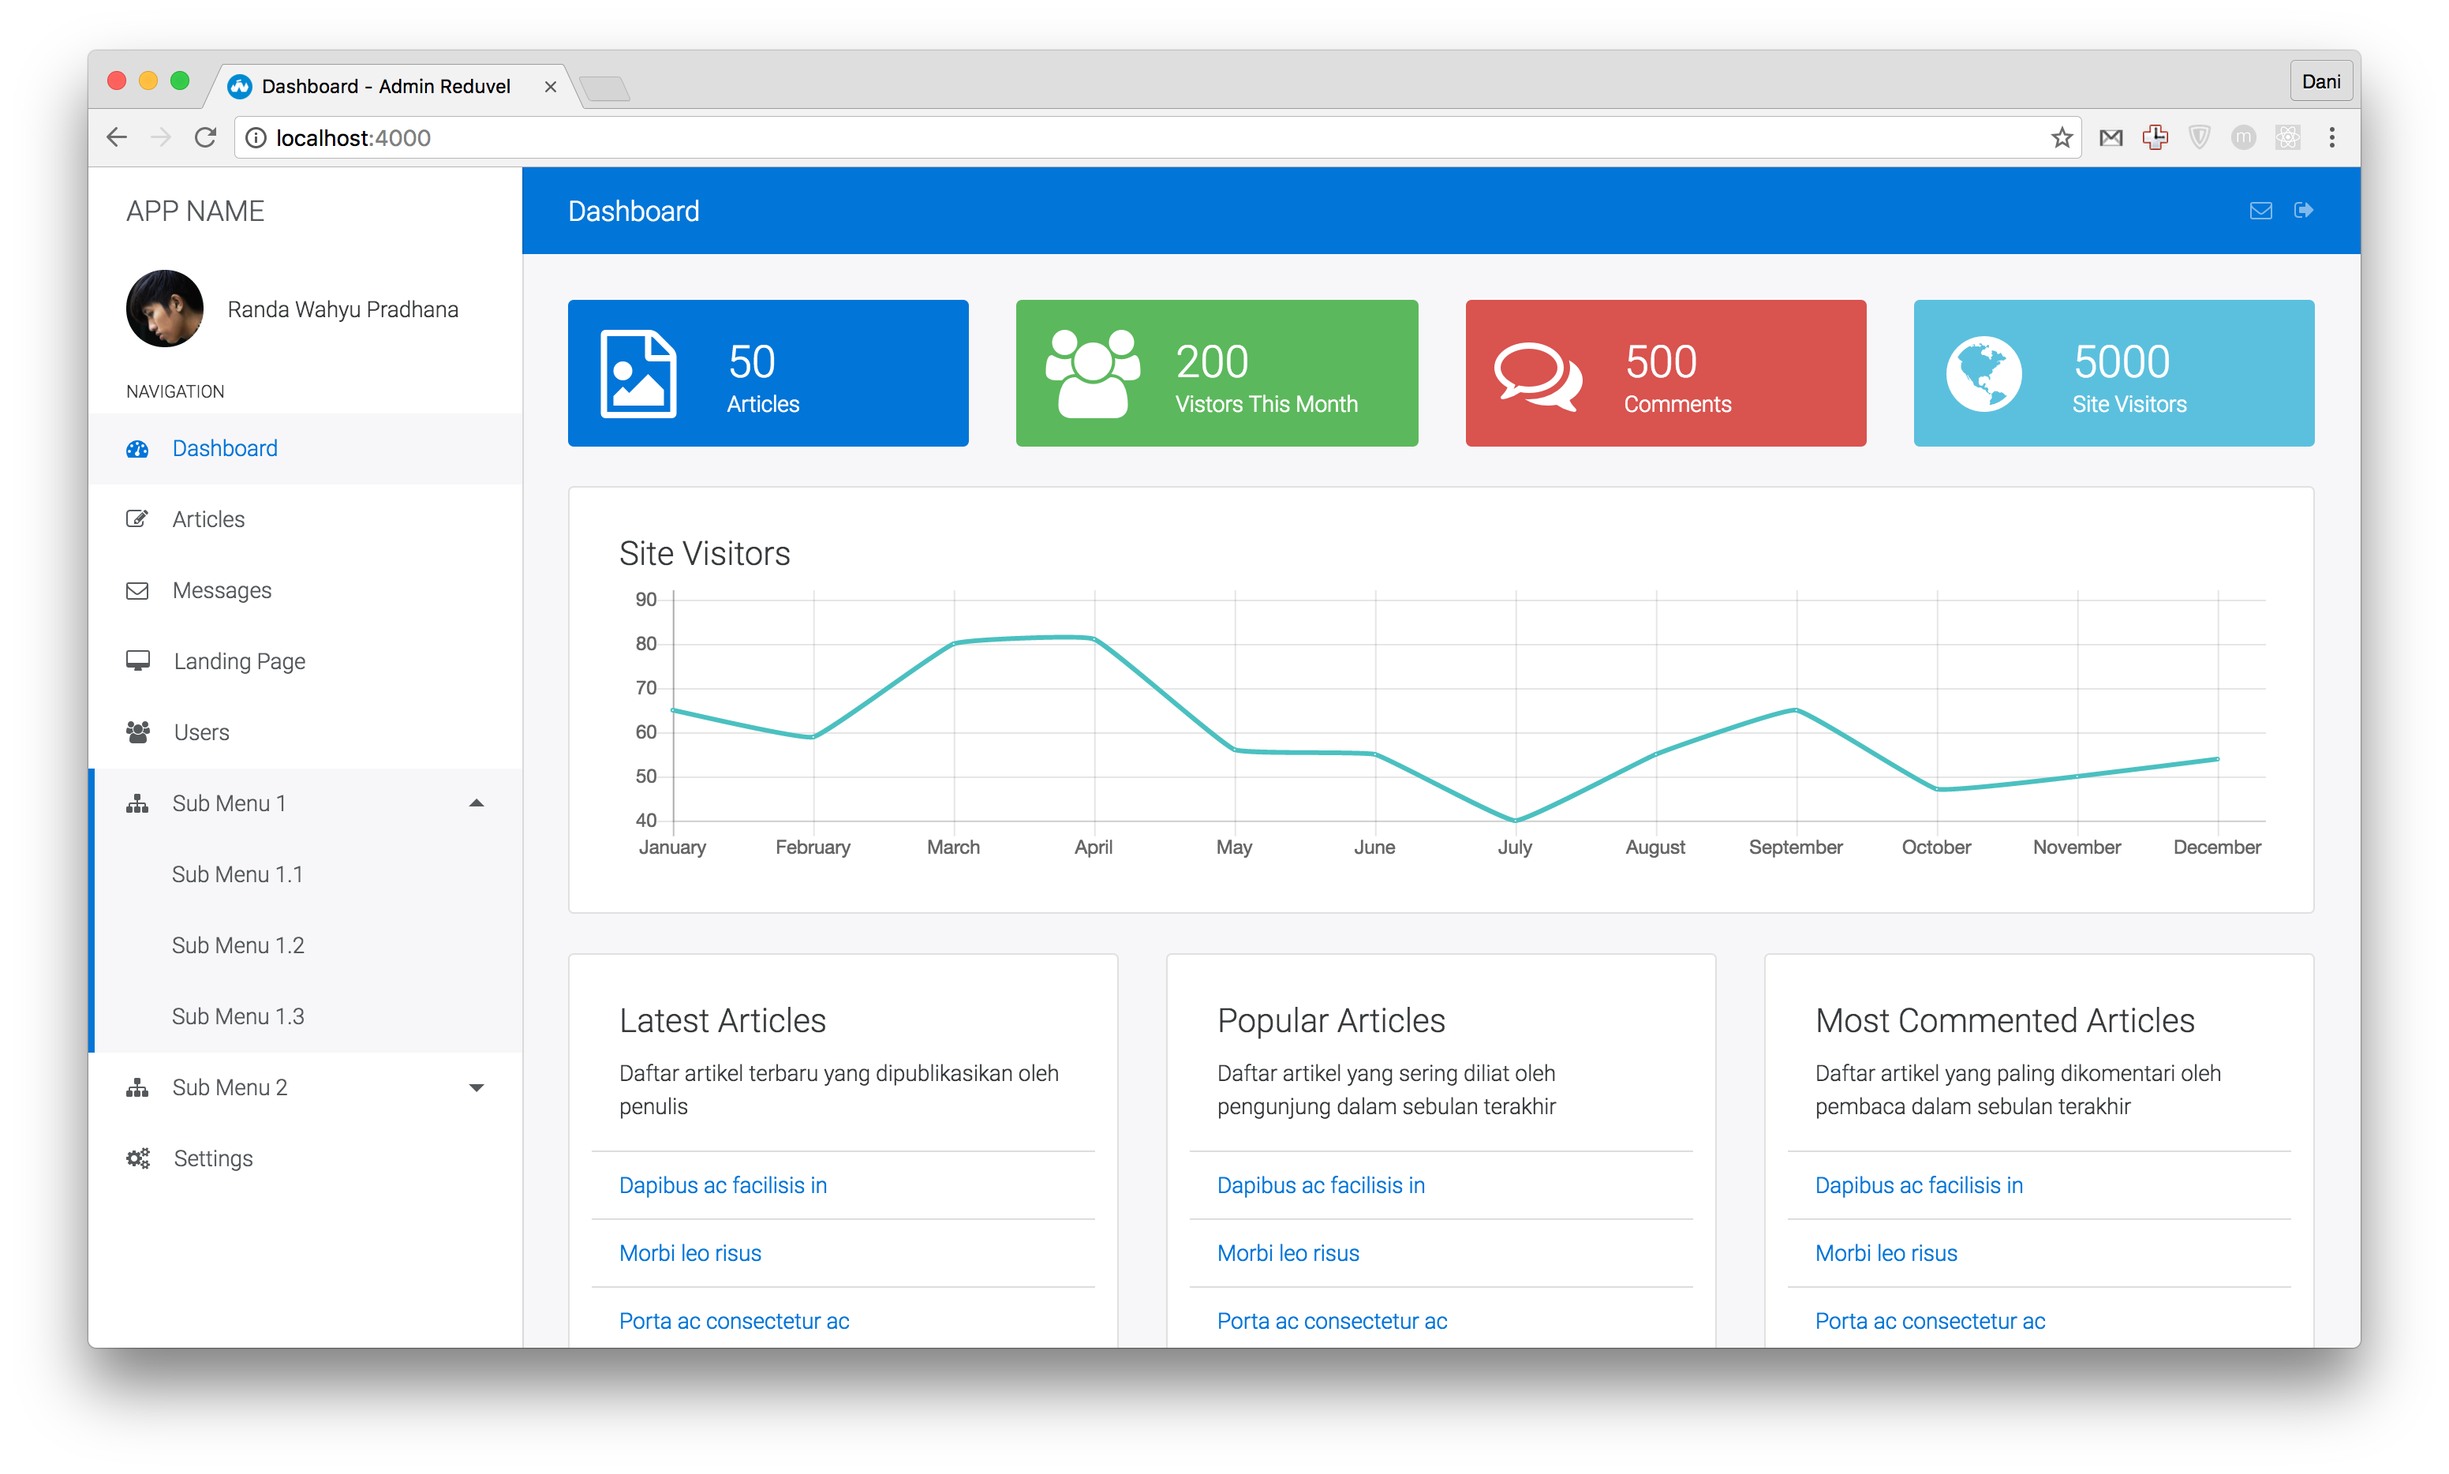
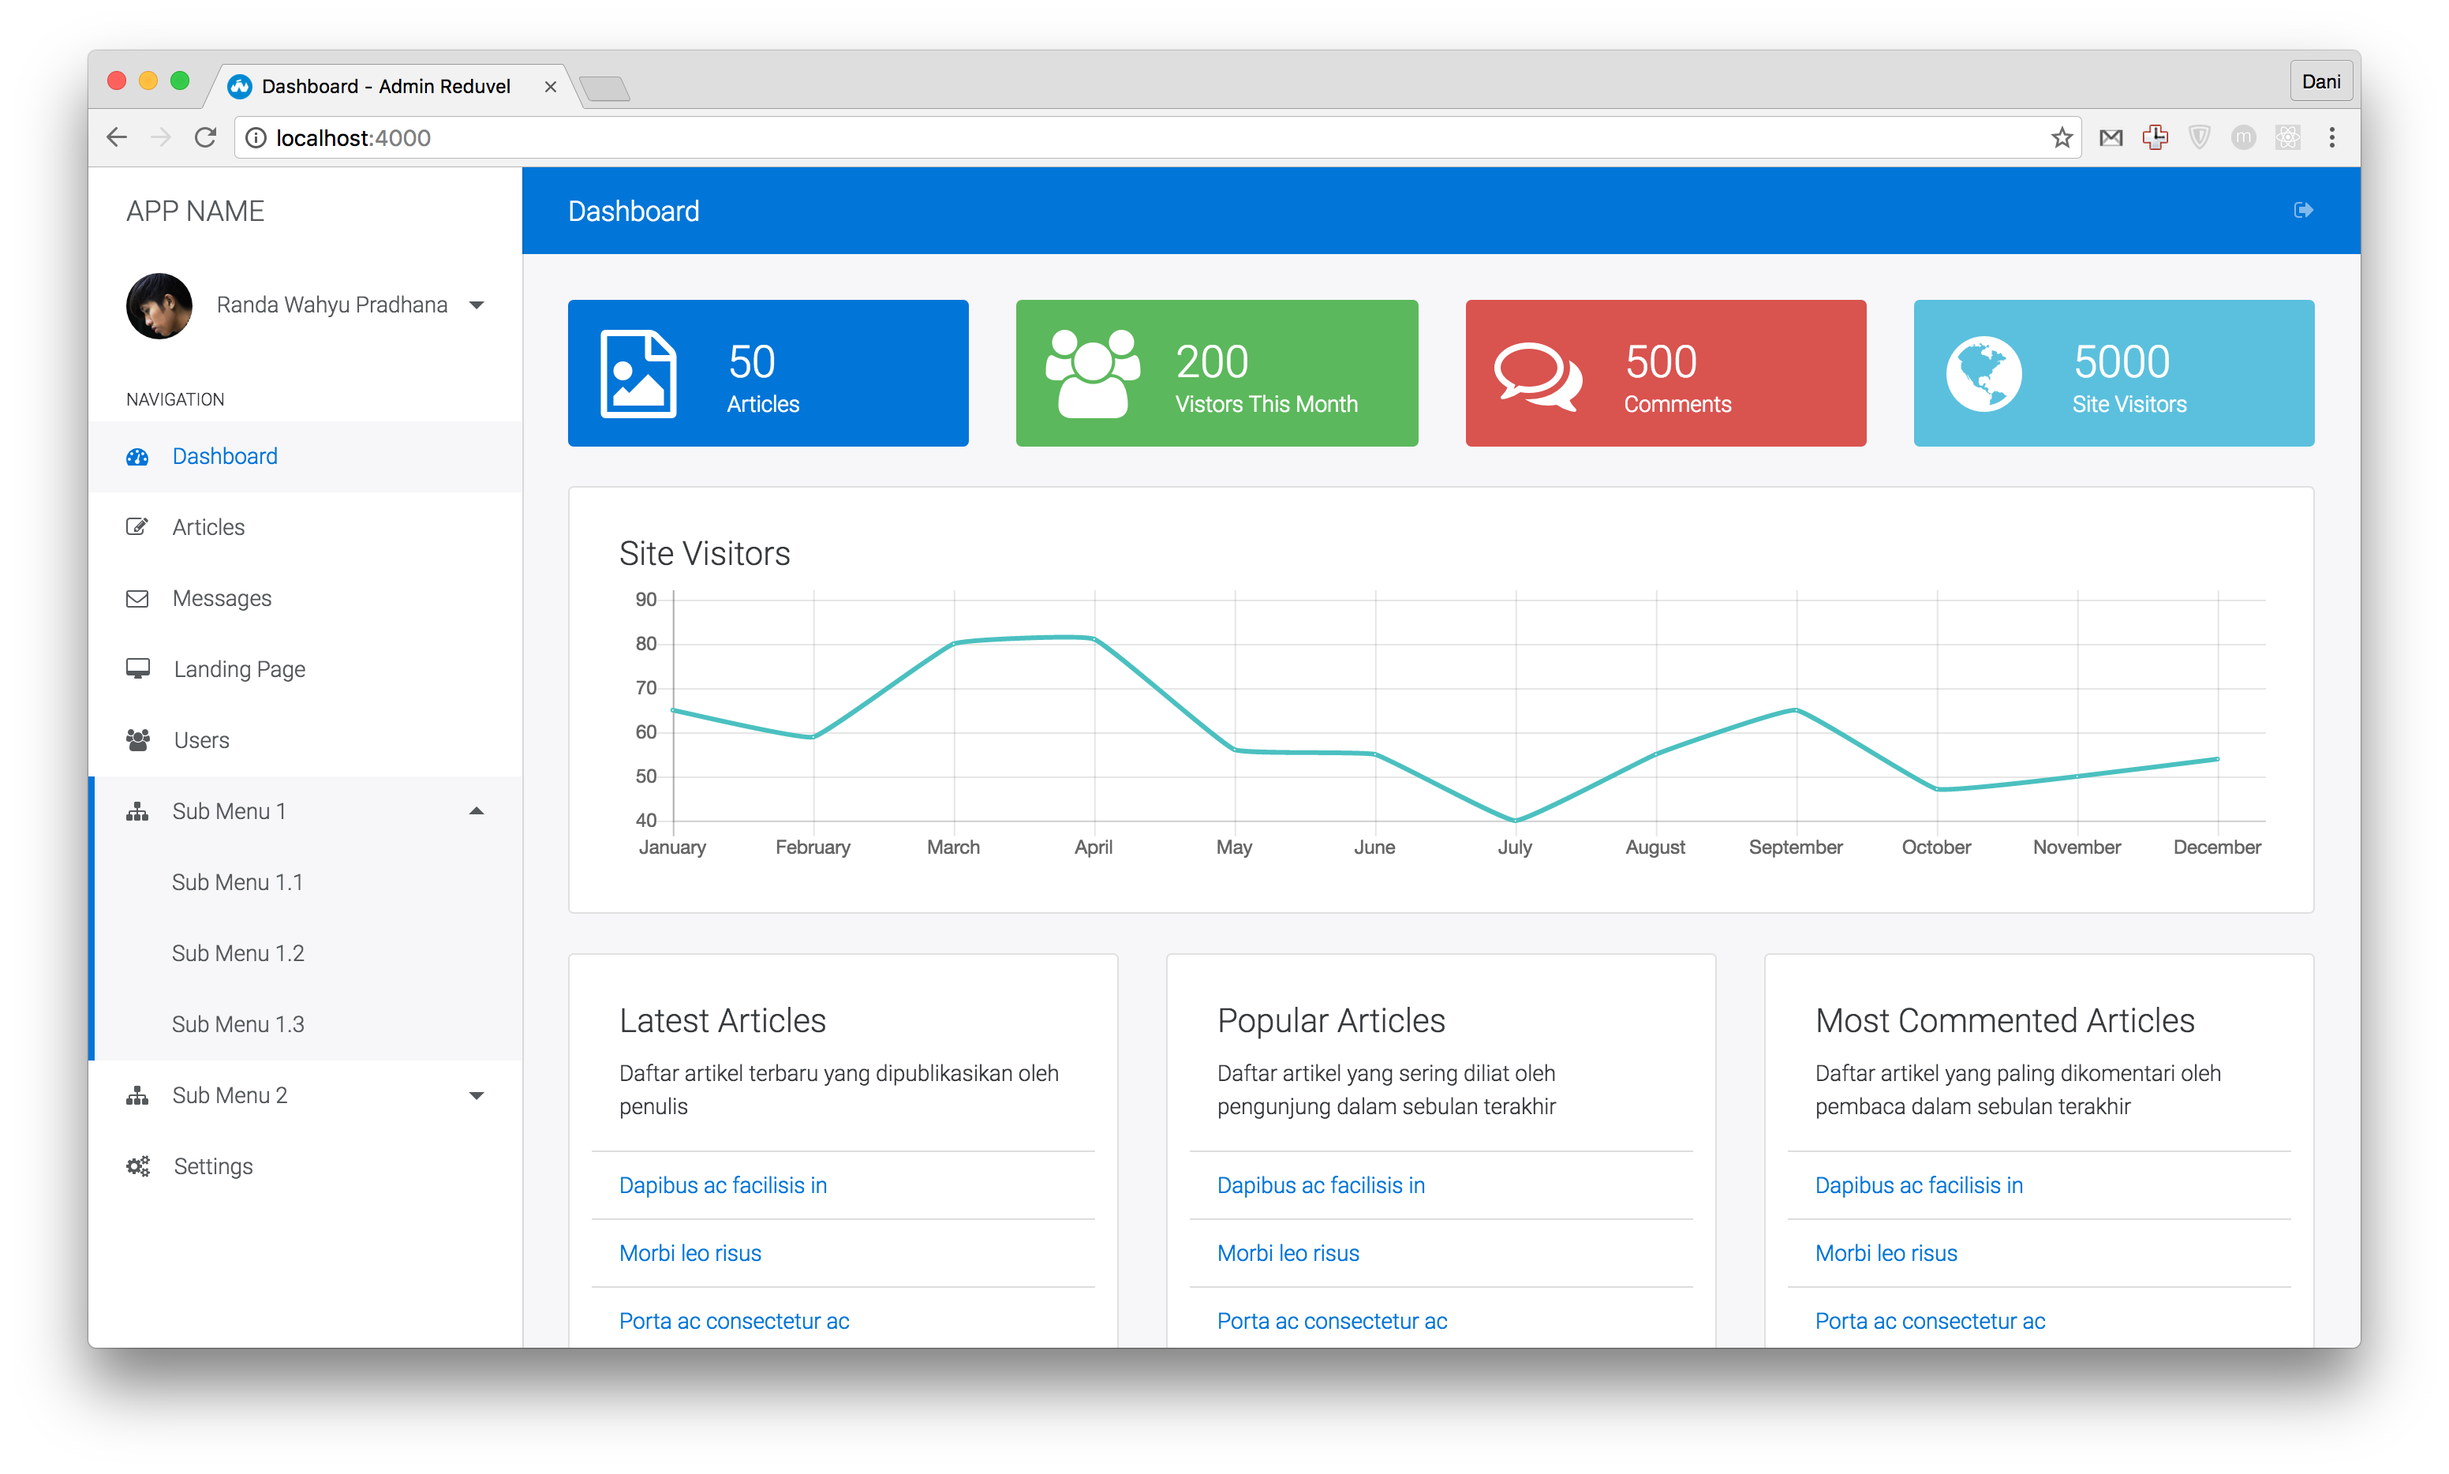
update readme.md with new preview

diff --git a/_includes/header.html b/_includes/header.html
@@ -11,20 +11,8 @@
     </a>
 
     <ul class="nav navbar-nav float-xs-right">
-      <li class="nav-item dropdown">
-        <a href="#" id="dLabel" class="nav-link" data-toggle="dropdown" aria-haspopup="true" aria-expanded="false">
-          <i class="fa fa-envelope-o"></i>
-        </a>
-        <div class="dropdown-menu dropdown-menu-right" aria-labelledby="dLabel">
-          <a class="dropdown-item" href="#">Action</a>
-          <a class="dropdown-item" href="#">Another action</a>
-          <a class="dropdown-item" href="#">Something else here</a>
-          <div class="dropdown-divider"></div>
-          <a class="dropdown-item" href="#">Separated link</a>
-        </div>
-      </li>
       <li class="nav-item">
-        <a href="#" class="nav-link">
+        <a href="#" class="nav-link" data-toggle="tooltip" data-placement="bottom" title="Logout">
           <i class="fa fa-sign-out"></i>
         </a>
       </li>

diff --git a/js/app.js b/js/app.js
@@ -3,6 +3,8 @@ $("#menu-toggle").click(function(e) {
     $("#wrapper").toggleClass("toggled");
 });
 
+$('[data-toggle="tooltip"]').tooltip();
+
 $('li.panel').children('.sub-menu').on('click', function(e){
   e.stopPropagation();
 });

diff --git a/README.md b/README.md
@@ -12,6 +12,6 @@
 - Install Ruby and Jekyll
 - Install Node, npm and grunt
 - Run `jekyll serve` to generate `_site` and preview it
-- Run `cd bootstrap-4` and `grunt watch` for theming
+- Run `cd bootstrap-4` and then `grunt watch` for theming
 
 [screenshot]: admin.png
